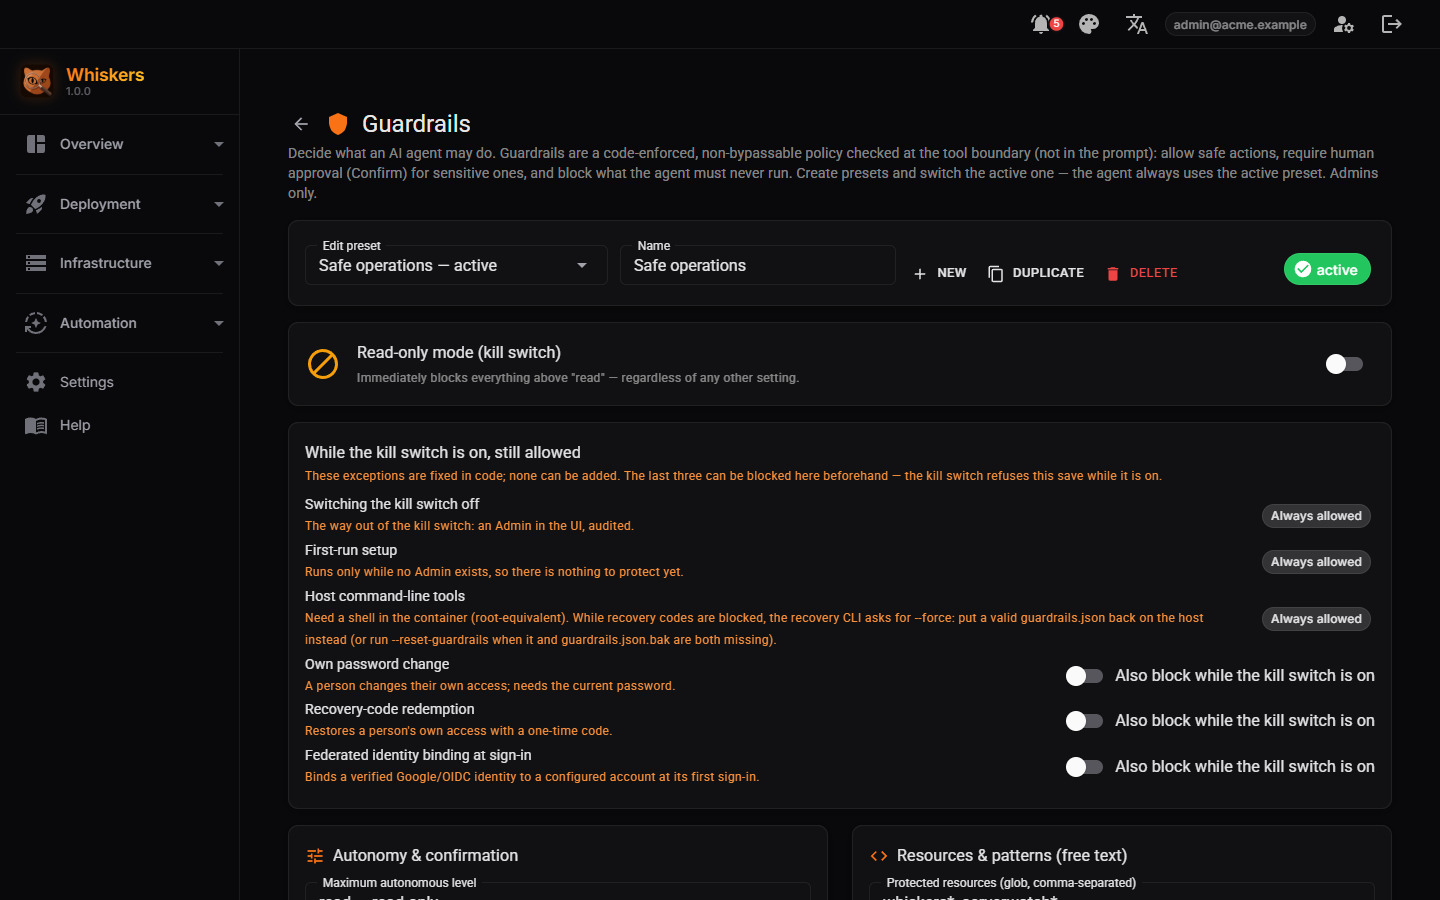
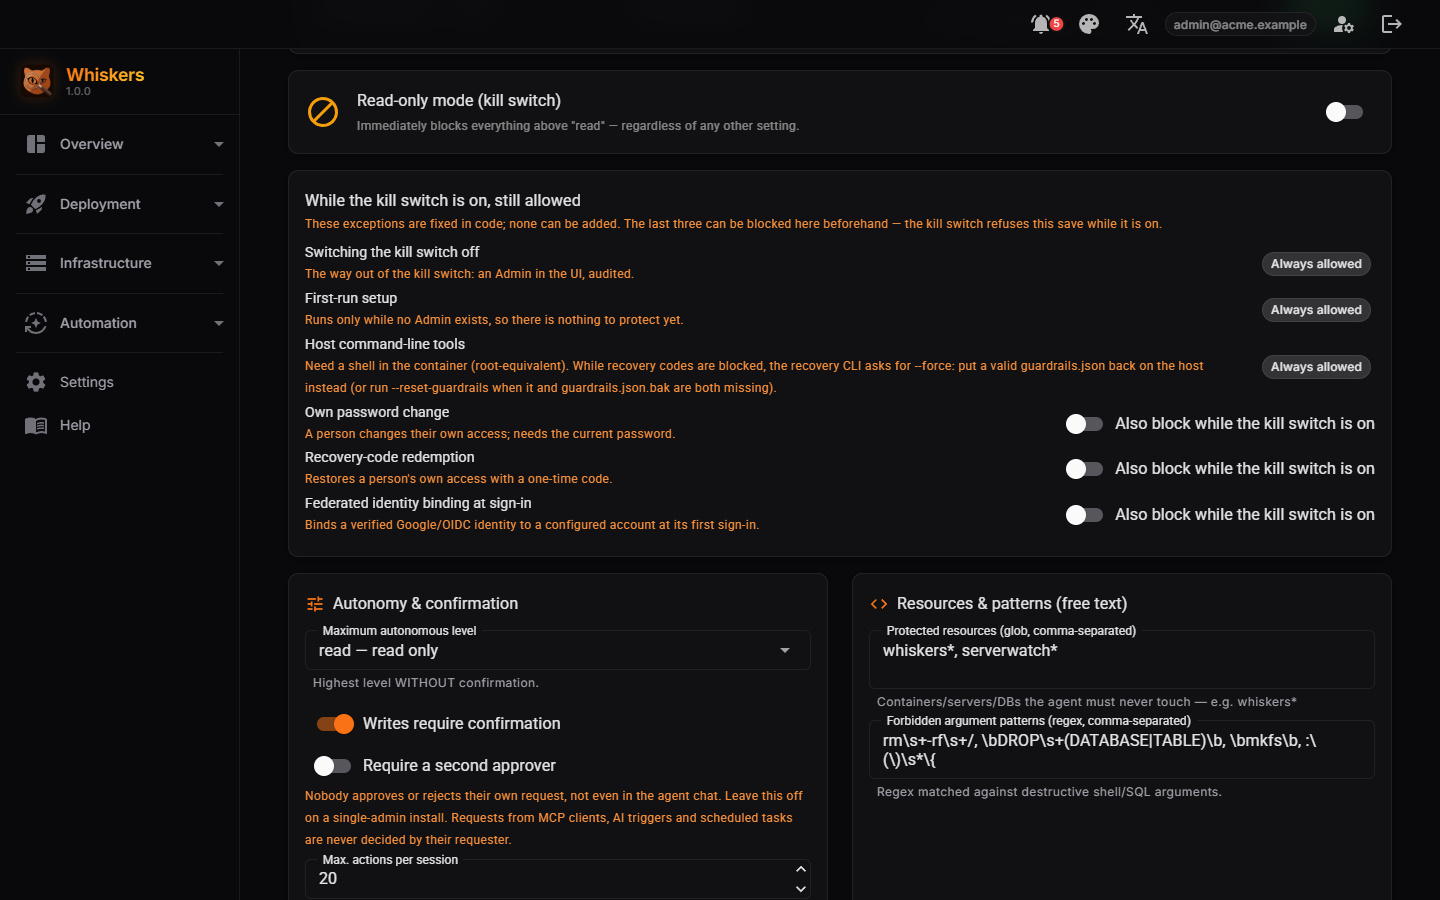
docs: screenshot review fixes
- guardrails: recaptured scrolled to the kill switch, so autonomy,
  second approver, protected resources and patterns are in view
- topology route is /graph
- audit log text describes what the log records: held and denied calls
  as failed attempts, the approved restart as succeeded
- demo-script: drop the superseded seeding section, point to
  screenshots.md; README row follows
- dashboard and topology captions match the images

diff --git a/docs/product/screenshots.md b/docs/product/screenshots.md
@@ -10,12 +10,12 @@ against an isolated demo Docker daemon that runs only demo containers.
 | File | Route | Pillar | Shows |
 |---|---|---|---|
 | `governance-ai-operations.png` | `/ai-operations` | Governed setup | Connect a client, mint a least-privilege key, activate a starter guardrail preset. |
-| `governance-guardrails.png` | `/guardrails` | Enforced governance | Code-enforced policy at the tool boundary: read-only kill switch, max autonomous level, protected resources, forbidden argument patterns. |
-| `governance-approvals.png` | `/approvals` | Controlled access | A *pending* `update_container` (write) from the `Demo agent` key, held by the *Safe operations* preset, with risk, target and redacted parameters; below it the approved `restart_container`. |
+| `governance-guardrails.png` | `/guardrails` | Enforced governance | Code-enforced policy at the tool boundary: read-only kill switch and its fixed exceptions, max autonomous level, writes need confirmation, second-approver switch, protected resources, forbidden argument patterns. |
+| `governance-approvals.png` | `/approvals` | Controlled access | A *pending* `update_container` (write) from the `Demo agent` key, held by the *Safe operations* preset, with risk, target and a collapsed panel of redacted parameters; below it the approved `restart_container`. |
 | `governance-agent-history.png` | `/agent-history` | Controlled access | Every MCP tool call — actor, level (read/write/admin), verdict (Allow/Confirm/Deny), duration, status — including an admin call denied by policy. |
-| `governance-audit-log.png` | `/audit-log` | Complete accountability | The approval + execution trail: approval requested/granted, guardrail denied, container restarted. |
-| `dashboard-overview.png` | `/` | Reach | Container overview (total/running/stopped/unhealthy) and the expanded summary of the local Docker host. |
-| `topology.png` | `/topology` | Reach | The containers of the local host as a graph. |
+| `governance-audit-log.png` | `/audit-log` | Complete accountability | Every change with actor and outcome: the held and the denied calls as failed (`Container updated`, `host.exec`, first `Container restarted`), the approved restart as succeeded, plus key creation, guardrail save and login. A held call is logged under its action name with a failed status — it did not run. |
+| `dashboard-overview.png` | `/` | Reach | Container overview (total/running/stopped/unhealthy), the "add your first server" card, and the expanded summary of the local Docker host. |
+| `topology.png` | `/graph` | Reach | The containers of the local host as nodes; edges appear for shared networks and links (none in the demo). |
 
 ## Reproducing
 
@@ -41,8 +41,8 @@ so every row went through the guardrails exactly as it would in production.
       `get_container_details`.
    5. `execute_command` with `docker system prune -af --volumes` (admin, denied), then
       `update_container` for `web` (write, left pending).
-5. Capture `/approvals`, `/agent-history`, `/audit-log`, `/guardrails`, `/topology`, and `/` with the
-   local host's summary expanded.
+5. Capture `/approvals`, `/agent-history`, `/audit-log`, `/guardrails` (scrolled to the kill switch),
+   `/graph`, and `/` with the local host's summary expanded.
 
 ## Anonymization
 
@@ -56,5 +56,5 @@ so every row went through the guardrails exactly as it would in production.
 
 - **CVE monitor** with findings and the **deploy / exposure plan** — both run host commands (`nsenter`,
   the deployment directory) and need Whiskers on a Linux host, e.g. the container image.
-- The **second-approver** rule on a pending approval (the switch is on `/guardrails`, below the fold).
+- A pending approval under the **second-approver** rule (the switch itself is on the Guardrails image).
 - **Light-theme variants** and a short **demo video** of the full hero loop.

diff --git a/docs/guide/screenshots.md b/docs/guide/screenshots.md
@@ -1,13 +1,14 @@
 # Screenshots
 
-Captured against an isolated demo Docker daemon; the history comes from real MCP calls of a demo agent. How each image is reproduced: [product/screenshots.md](../product/screenshots.md);
-the scripted walkthrough: [product/demo-script.md](../product/demo-script.md). The in-app handbook (*Help*) has screenshots
-for every area.
+Captured against an isolated demo Docker daemon; the history comes from real MCP calls of a demo agent. How each
+image is reproduced: [product/screenshots.md](../product/screenshots.md); the scripted walkthrough:
+[product/demo-script.md](../product/demo-script.md). The in-app handbook (*Help*) has screenshots for every area.
 
-**Guardrails.** The policy checked at the tool boundary: a read-only kill switch, the highest level allowed without
-confirmation, protected resources, and forbidden argument patterns.
+**Guardrails.** The policy checked at the tool boundary: a read-only kill switch and the exceptions that stay allowed
+while it is on, the highest level allowed without confirmation, an optional second approver, protected resources, and
+forbidden argument patterns.
 
-![Guardrails: a code-enforced policy with a read-only kill switch, maximum autonomous level, protected resources and forbidden argument patterns](../product/screenshots/governance-guardrails.png)
+![Guardrails: a read-only kill switch with its fixed exceptions, maximum autonomous level, writes requiring confirmation, a second-approver switch, protected resources and forbidden argument patterns](../product/screenshots/governance-guardrails.png)
 
 **Approvals.** A write the active preset holds back: the agent waits until a person approves or rejects it. Risk,
 target and the (redacted) parameters are shown before the decision.
@@ -19,20 +20,20 @@ target and the (redacted) parameters are shown before the decision.
 
 ![Agent History: a table of tool calls showing actor, level, verdict and status, including an admin-level call denied by policy](../product/screenshots/governance-agent-history.png)
 
-**Audit Log.** The approval and execution trail: who approved what, which action a guardrail blocked, and the
-resulting change.
+**Audit Log.** Every change with actor, target and outcome. Calls the guardrails held or denied appear as failed
+attempts: they did not run. The approved restart appears as succeeded.
 
-![Audit Log: approval-granted and guardrail-denied entries with actor, action and target](../product/screenshots/governance-audit-log.png)
+![Audit Log: entries by the Demo agent and the admin with action, target and status, including failed held and denied calls and a succeeded container restart](../product/screenshots/governance-audit-log.png)
 
 **AI Operations onboarding.** Connect a client, create a read-only key, and activate a starter guardrail preset
 (Observe only / Safe operations / Approval required).
 
 ![Secure AI Operations onboarding: connect a client, create a read-only key, choose a starter guardrail preset](../product/screenshots/governance-ai-operations.png)
 
-**Dashboard.** Status across Docker hosts and Kubernetes workloads, with a summary per host.
+**Dashboard.** Status across your hosts, here the local Docker host with its summary.
 
 ![Container overview dashboard: total/running/stopped/unhealthy counts and the expanded summary of the local Docker host](../product/screenshots/dashboard-overview.png)
 
-**Topology.** The containers of a host as a graph.
+**Topology.** The containers of a host as nodes; edges appear for shared networks and links.
 
 ![Topology: the five demo containers of the local host as nodes](../product/screenshots/topology.png)

diff --git a/docs/product/demo-script.md b/docs/product/demo-script.md
@@ -24,49 +24,23 @@ Execute → Verify → Audit.**
 5. **Execute — once.** The *same* call instance runs exactly once. The correlation id ties the
    proposal, the approval and the execution together.
 6. **Verify.** The agent re-reads the container's health: back to healthy.
-7. **Audit.** **Agent History** shows every step with its verdict; **Audit Log** shows the
-   `approval.granted` and the resulting `container.restart`.
+7. **Audit.** **Agent History** shows every step with its verdict; **Audit Log** shows the attempt
+   that was held (failed) and the approved restart (succeeded), each with the agent as actor.
 
 Then show the guardrail *biting*: the agent attempts a destructive `execute_command`
 (`docker system prune -af --volumes`) on a production host. It never runs — the guardrail denies it,
-and the denial is recorded in both **Agent History** (verdict `Deny`) and **Audit Log**
-(`guardrail.denied`).
+and the denial is recorded in both **Agent History** (verdict `Deny`) and **Audit Log** (a failed
+`host.exec`).
 
 That is the whole pitch in one loop: the agent is useful, but it can only ever do what policy allows,
 a human approves the sensitive step, and everything is on the record.
 
 ---
 
-## Reproducing the demo dataset
+## Reproducing the demo
 
-The screenshots are captured against an **anonymized demo dataset** — no real hosts, no real
-container names. The dataset is seeded directly into a throwaway metrics database so the governance
-history is deterministic and privacy-safe.
-
-**Data that is seeded** (into `metrics.db`, a fresh `WHISKERS_DATA_DIR`):
-
-- `McpToolCalls` — the tool-call history for the story above: `list_containers` / `get_container_logs`
-  (read / Allow), `restart_container` (write / Confirm → approved), `get_container_metrics`
-  (read / Allow), a denied `execute_command` (admin / Deny), plus human-operator calls
-  (`get_container_cves`, `update_container`, `backup_database`). Actors are `Whiskers Agent` and
-  `admin@acme.example`; every write call carries a correlation id.
-- `AuditLog` — the matching trail: `approval.granted`, `container.restart`, `guardrail.denied`.
-
-**Live surfaces** (Dashboard) are shown against a local Docker host running a handful of throwaway
-containers with generic names (`web`, `cache`, `postgres`, `worker`, and a deliberately unhealthy
-`payments-api`). Only the connected-host summary (OS / CPU / memory / usage charts) is captured — never
-a real fleet.
-
-**Boot for the demo:**
-
-```bash
-# a throwaway data dir with the seeded metrics.db + a single local Docker server
-WHISKERS_DATA_DIR=/path/to/demo-data \
-Auth__Disabled=true \
-ASPNETCORE_ENVIRONMENT=Development \
-Docker__SocketPath="npipe://./pipe/docker_engine"   # unix:///var/run/docker.sock on Linux
-dotnet run --project src/Whiskers/Whiskers.csproj --urls http://127.0.0.1:5190
-```
-
-`Auth__Disabled=true` is for local capture only — never in a deployment. Set the UI language to
-English (default) via the language switcher, then walk the routes in [screenshots.md](screenshots.md).
+The story is played against a fresh instance and an isolated demo Docker daemon that runs only the
+containers `web`, `cache`, `postgres`, `worker` and a deliberately unhealthy `payments-api`. Nothing
+is seeded: the agent is an MCP key named `Demo agent`, and every row in Approvals, Agent History and
+Audit Log comes from a real call that went through the guardrails. The exact steps are in
+[screenshots.md § Reproducing](screenshots.md#reproducing).

diff --git a/docs/product/README.md b/docs/product/README.md
@@ -7,7 +7,7 @@ their product language from here so README, website and in-app help stay consist
 | Document | What |
 |---|---|
 | [POSITIONING.md](POSITIONING.md) | Canonical one-liner, elevator pitch, target audience, problem, value proposition, the three product pillars, the hero workflow, approved/avoided wording, and the glossary. |
-| [demo-script.md](demo-script.md) | The hero-workflow demo (Observe → Propose → Check policy → Approve → Execute → Verify → Audit) and how to build the anonymized demo dataset. |
+| [demo-script.md](demo-script.md) | The hero-workflow demo (Observe → Propose → Check policy → Approve → Execute → Verify → Audit) and how to reproduce it against a demo Docker daemon. |
 | [screenshots.md](screenshots.md) | Canonical product screenshots mapped to the three pillars, capture conventions, and anonymization rules. Images live in [screenshots/](screenshots/). |
 
 > These are the source of truth for *how we talk about Whiskers*, not a feature backlog. Product
